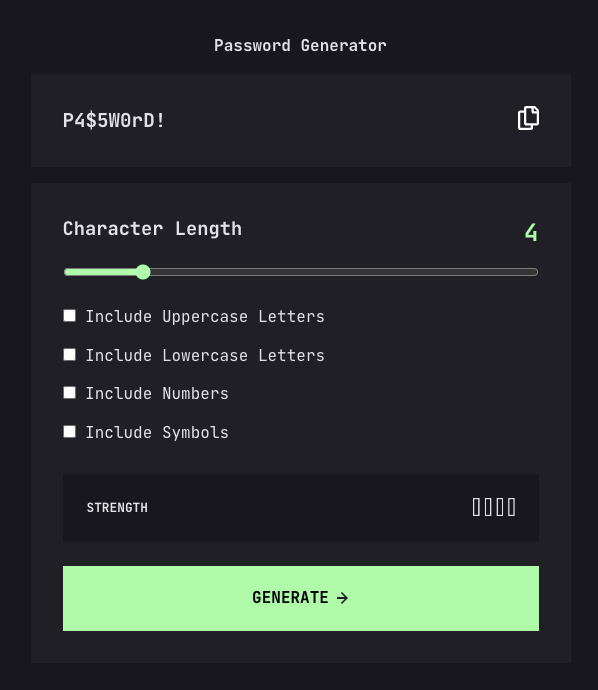
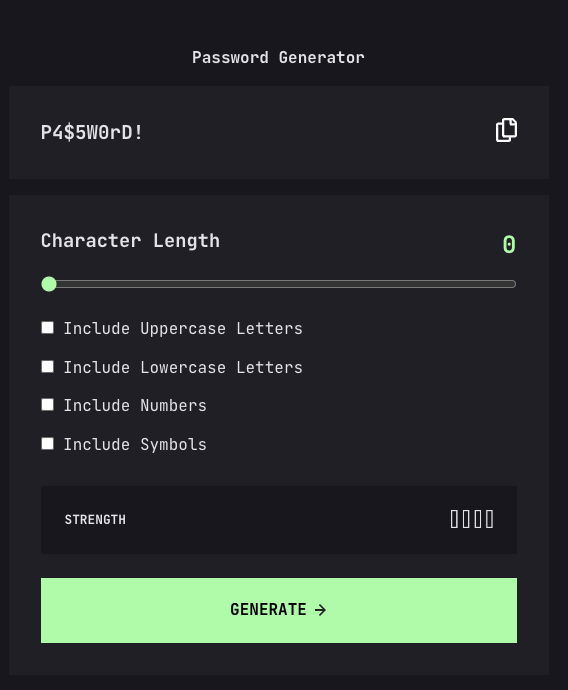
finalize checkmarks and app

diff --git a/styles.css b/styles.css
@@ -10,6 +10,8 @@
   --grey: hsl(251, 9%, 53%);
   --dark-grey: hsl(248, 10%, 15%);
   --very-dark-grey: hsl(248, 15%, 11%);
+
+  --green: rgb(163, 255, 174);
 }
 
 body {
@@ -41,14 +43,6 @@ main {
   font-size: 1.2rem;
 }
 
-.generated-password.error {
-  color: var(--red);
-}
-
-.generated-password.copied {
-  color: #a4ffaf;
-}
-
 .user-pw-section,
 .generate-pw-section {
   min-width: 300px;
@@ -57,7 +51,6 @@ main {
 }
 
 /* USER PASSWORD SECTION */
-
 .user-pw-section {
   display: flex;
   justify-content: space-between;
@@ -76,8 +69,7 @@ main {
   fill: #a4ffaf;
 }
 
-/* GENERATE PASSWORD SECTION */
-
+/* GENERATE PASSWORD SECTION -- EXCEPT CHECKBOXES (see checkbox section separately below*/
 .char-length-wrapper {
   display: flex;
   justify-content: space-between;
@@ -95,15 +87,6 @@ main {
   margin-bottom: 1em;
   accent-color: var(--green);
   cursor: pointer;
-}
-
-.checkbox-wrapper input {
-  font-size: 1rem;
-  margin: 0.8em 0;
-}
-
-input[type="checkbox"]:checked {
-  background-color: var(--green);
 }
 
 .strength-container {
@@ -155,6 +138,77 @@ input[type="checkbox"]:checked {
   border: 2px solid var(--green);
 }
 
+/* CHECKBOX HANDLING  */
+.checkbox-wrapper {
+  display: flex;
+  flex-direction: column;
+  gap: 10px;
+}
+
+[type="checkbox"] {
+  opacity: 0;
+  width: 0;
+  height: 0;
+  position: absolute;
+}
+
+[type="checkbox"] + label {
+  position: relative;
+  cursor: pointer;
+  padding-left: 30px;
+  /* labels are by default inline elements */
+  display: inline-block;
+  color: var(--almost-white);
+  line-height: 25px;
+}
+
+/* the box around the checkmark  */
+[type="checkbox"] + label::before {
+  content: " ";
+  position: absolute;
+  width: 14px;
+  height: 14px;
+  border: 1px solid var(--almost-white);
+  top: 50%;
+  left: 2px;
+  background-color: transparent;
+  transform: translateY(-50%);
+  transition: all 0.1s ease;
+}
+
+[type="checkbox"] + label:hover::before {
+  border: 2px solid var(--green);
+  background-color: rgba(163, 255, 174, 0.1);
+}
+
+/* the checkmark itself  */
+[type="checkbox"]:checked + label::after {
+  content: "";
+  position: absolute;
+  left: 2px;
+  top: 50%;
+  transform: translateY(-50%);
+  background-image: url("assets/images/icon-check.svg");
+  background-size: cover;
+  height: 14px;
+  width: 14px;
+  background-color: var(--green);
+  border: 2px solid var(--green);
+}
+
+/* STATE HANDLING FOR JAVASCRIPT INTERACTIVITY */
+/* Error state for generated password */
+.generated-password.error {
+  color: var(--red);
+  /* font-size: 1.1rem; */
+}
+
+/* Copied state for generated password */
+.generated-password.copied {
+  color: #a4ffaf;
+}
+
+/* MEDIA QUERY */
 @media (width >= 768px) {
   .user-pw-section,
   .generate-pw-section {

diff --git a/script.js b/script.js
@@ -22,6 +22,16 @@ charRange.addEventListener("input", function () {
 
 // GENERATING THE PASSWORD
 generateBtn.addEventListener("click", generatePassword);
+// if the user plays around with the buttons and range then the code will still function as expected with these eventlisteners added to the js code:
+uppercaseCheckbox.addEventListener("change", generatePassword);
+
+lowercaseCheckbox.addEventListener("change", generatePassword);
+
+numbersCheckbox.addEventListener("change", generatePassword);
+
+symbolsCheckbox.addEventListener("change", generatePassword);
+
+charRange.addEventListener("input", generatePassword);
 
 function generatePassword() {
   let password = "";
@@ -36,6 +46,16 @@ function generatePassword() {
   if (chars.length === 0) {
     generatedPassword.textContent = "Tick at least 1 box";
     generatedPassword.classList.add("error");
+    setTimeout(() => {
+      generatedPassword.textContent = "...and choose length";
+
+      setTimeout(() => {
+        generatedPassword.textContent = "P4$5W0rD!";
+        generatedPassword.classList.remove("error");
+        generatePassword.style.color = "#e7e6eb";
+      }, 2000);
+    }, 2000);
+
     return;
   }
 
@@ -53,25 +73,22 @@ function generatePassword() {
 function calculatePassWordStrength(password) {
   const strengthImgMeter = document.getElementById("strength-img-meter");
 
+  const length = password.length;
+
   const hasUpperCase = /[A-Z]/.test(password);
   const hasLowerCase = /[a-z]/.test(password);
   const hasNumbers = /[0-9]/.test(password);
   const hasSymbols = /[!@#$%&*?]/.test(password);
 
-  const isTooWeak = password.length <= 4 && password.length > 0;
-  const isWeak = password.length <= 8 && !isTooWeak;
+  const isTooWeak = length > 0 && length <= 4;
+  const isWeak = length > 4 && length <= 8;
   const isMedium =
-    password.length < 14 &&
-    password.length > 8 &&
-    hasLowerCase &&
-    hasNumbers &&
-    (hasUpperCase || hasSymbols);
+    length > 8 &&
+    length < 14 &&
+    hasUpperCase + hasLowerCase + hasNumbers + hasSymbols >= 2;
 
   const isStrong =
-    password.length >= 14 &&
-    hasLowerCase &&
-    hasNumbers &&
-    (hasUpperCase || hasSymbols);
+    length >= 14 && hasUpperCase + hasLowerCase + hasNumbers + hasSymbols >= 3;
 
   if (!password.length) {
     strengthImgMeter.src = "assets/images/empty.png";

diff --git a/index.html b/index.html
@@ -46,31 +46,35 @@
             <label for="char-range">Character Length</label>
           </h3>
 
-          <h4 id="char-number" class="char-number">4</h4>
+          <h4 id="char-number" class="char-number">0</h4>
         </div>
         <input
           type="range"
           id="char-range"
           class="char-range"
           name="char-range"
-          value="4"
-          min="1"
+          value="0"
+          min="0"
           max="20"
         />
 
         <div class="checkbox-wrapper">
-          <input type="checkbox" id="uppercase" name="uppercase" />
-          <label for="uppercase">Include Uppercase Letters </label>
-          <br />
-          <input type="checkbox" id="lowercase" name="lowercase" />
-          <label for="lowercase">Include Lowercase Letters</label>
-          <br />
-          <input type="checkbox" id="numbers" name="numbers" />
-          <label for="numbers">Include Numbers</label>
-          <br />
-          <input type="checkbox" id="symbols" name="symbols" />
-          <label for="symbols">Include Symbols</label>
-          <br />
+          <p>
+            <input type="checkbox" id="uppercase" name="include-char" />
+            <label for="uppercase">Include Uppercase Letters </label>
+          </p>
+          <p>
+            <input type="checkbox" id="lowercase" name="include-char" />
+            <label for="lowercase">Include Lowercase Letters</label>
+          </p>
+          <p>
+            <input type="checkbox" id="numbers" name="include-char" />
+            <label for="numbers">Include Numbers</label>
+          </p>
+          <p>
+            <input type="checkbox" id="symbols" name="include-char" />
+            <label for="symbols">Include Symbols</label>
+          </p>
         </div>
 
         <div class="strength-container">

diff --git a/README.md b/README.md
@@ -11,6 +11,7 @@ This is a solution to the [Password generator app challenge on Frontend Mentor](
 - [My process](#my-process)
   - [Built with](#built-with)
   - [What I learned](#what-i-learned)
+  - [Helpful Links](#helpful-links)
 - [Author](#author)
 
 ## Overview
@@ -40,18 +41,10 @@ Some of the various tasks/problems I had to work through when building the app:
 
 **CSS**
 
+- Change copy icon to green on hover
 - Make range indicator green
 - Create green checkboxes when user selects them
-- Ensure that all hover and focus states for the interactive elements are created
-- Change copy icon to white on hover
-- Add green and very dark grey css for range
-- Add hover state for range
-- Swap bullets for icon check
-- Check that the arrow arrow svg inside the generate button is coded correctly
-- Check accessibility throughout
-- Include more margin/padding
-- How to show the weak/medium/strong in css/js
-- Add ease on generate button
+- Add transition effect on hover states
 
 **Character Length**
 
@@ -81,7 +74,9 @@ Some of the various tasks/problems I had to work through when building the app:
 
 **Test for Various User Scenarios**
 
-**Add a reset button even though it is not part of the Figma design**
+**Later Update**
+
+- Add a reset button even though it is not part of the Figma design
 
 ### Built with
 
@@ -175,6 +170,100 @@ function copyPassword() {
     });
 }
 ```
+
+To determine the strength of the medium and strong password, I found this great solution: `&& hasUpperCase + hasLowerCase + hasNumbers + hasSymbols >= 2` and `&& hasUpperCase + hasLowerCase + hasNumbers + hasSymbols >= 3`
+
+```js
+const isTooWeak = length > 0 && length <= 4;
+const isWeak = length > 4 && length <= 8;
+const isMedium =
+  length > 8 &&
+  length < 14 &&
+  hasUpperCase + hasLowerCase + hasNumbers + hasSymbols >= 2;
+
+const isStrong =
+  length >= 14 && hasUpperCase + hasLowerCase + hasNumbers + hasSymbols >= 3;
+```
+
+The checkmark boxes was a valuable learning experience:
+
+```css
+/* CHECKBOX HANDLING  */
+.checkbox-wrapper {
+  display: flex;
+  flex-direction: column;
+  gap: 10px;
+}
+
+[type="checkbox"] {
+  opacity: 0;
+  width: 0;
+  height: 0;
+  position: absolute;
+}
+
+[type="checkbox"] + label {
+  position: relative;
+  cursor: pointer;
+  padding-left: 30px;
+  /* labels are by default inline elements */
+  display: inline-block;
+  color: var(--almost-white);
+  line-height: 25px;
+}
+
+/* the box around the checkmark  */
+[type="checkbox"] + label::before {
+  content: " ";
+  position: absolute;
+  width: 14px;
+  height: 14px;
+  border: 1px solid var(--almost-white);
+  top: 50%;
+  left: 2px;
+  background-color: transparent;
+  transform: translateY(-50%);
+  transition: all 0.1s ease;
+}
+
+[type="checkbox"] + label:hover::before {
+  border: 2px solid var(--green);
+  background-color: rgba(163, 255, 174, 0.1);
+}
+
+/* the checkmark itself  */
+[type="checkbox"]:checked + label::after {
+  content: "";
+  position: absolute;
+  left: 2px;
+  top: 50%;
+  transform: translateY(-50%);
+  background-image: url("assets/images/icon-check.svg");
+  background-size: cover;
+  height: 14px;
+  width: 14px;
+  background-color: var(--green);
+  border: 2px solid var(--green);
+}
+```
+
+Creating eventlisteners for the checkbox to ensure that the functionality of the app still works, if the user plays around with the range and the checkboxes:
+
+```js
+generatePassword);
+
+lowercaseCheckbox.addEventListener("change", generatePassword);
+
+numbersCheckbox.addEventListener("change", generatePassword);
+
+symbolsCheckbox.addEventListener("change", generatePassword);
+
+charRange.addEventListener("input", generatePassword);
+```
+
+## Helpful Links
+
+[Custom Checkbox Pure CSS Tutorial - Andrew Wilson - YouTube](https://www.youtube.com/watch?v=NfW_5Y1RZQ4)
 
 ## Author
 
